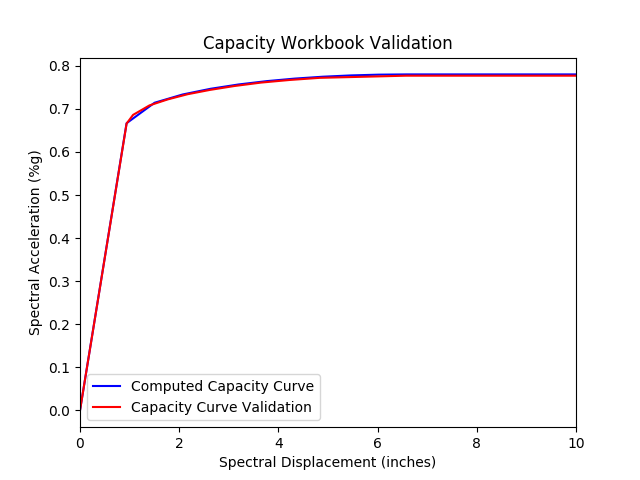
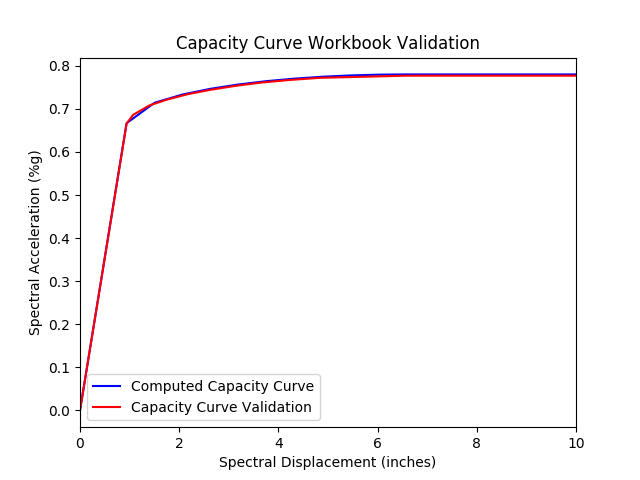
removed duplicate figures

Changed region(s): [[0.2812, 0.0625, 0.75, 0.125]]

diff --git a/aebm.py b/aebm.py
@@ -45,6 +45,7 @@ def run(capacity, hazard, hazard_beta, pref_periods, mag, r_rup):
         med_intersections: intersections of median capacity and median demand
         lower_intersections: intersections of median capacity and lower demand
         upper_intersections: intersections of median capacity and upper demand
+
     '''
     demand, lower_demand, upper_demand = get_demand(hazard, hazard_beta, pref_periods, capacity, mag, r_rup)
     med_intersections = performance_point(capacity['curve'], demand)

diff --git a/validation/workbook.py b/validation/workbook.py
@@ -46,7 +46,7 @@ def run():
     plt.legend()
 
     capacity_fig = plt.figure()
-    plt.title('Capacity Workbook Validation')
+    plt.title('Capacity Curve Workbook Validation')
     plt.xlabel('Spectral Displacement (inches)')
     plt.ylabel('Spectral Acceleration (%g)')
     plt.plot([p['x'] for p in capacity['curve']],
